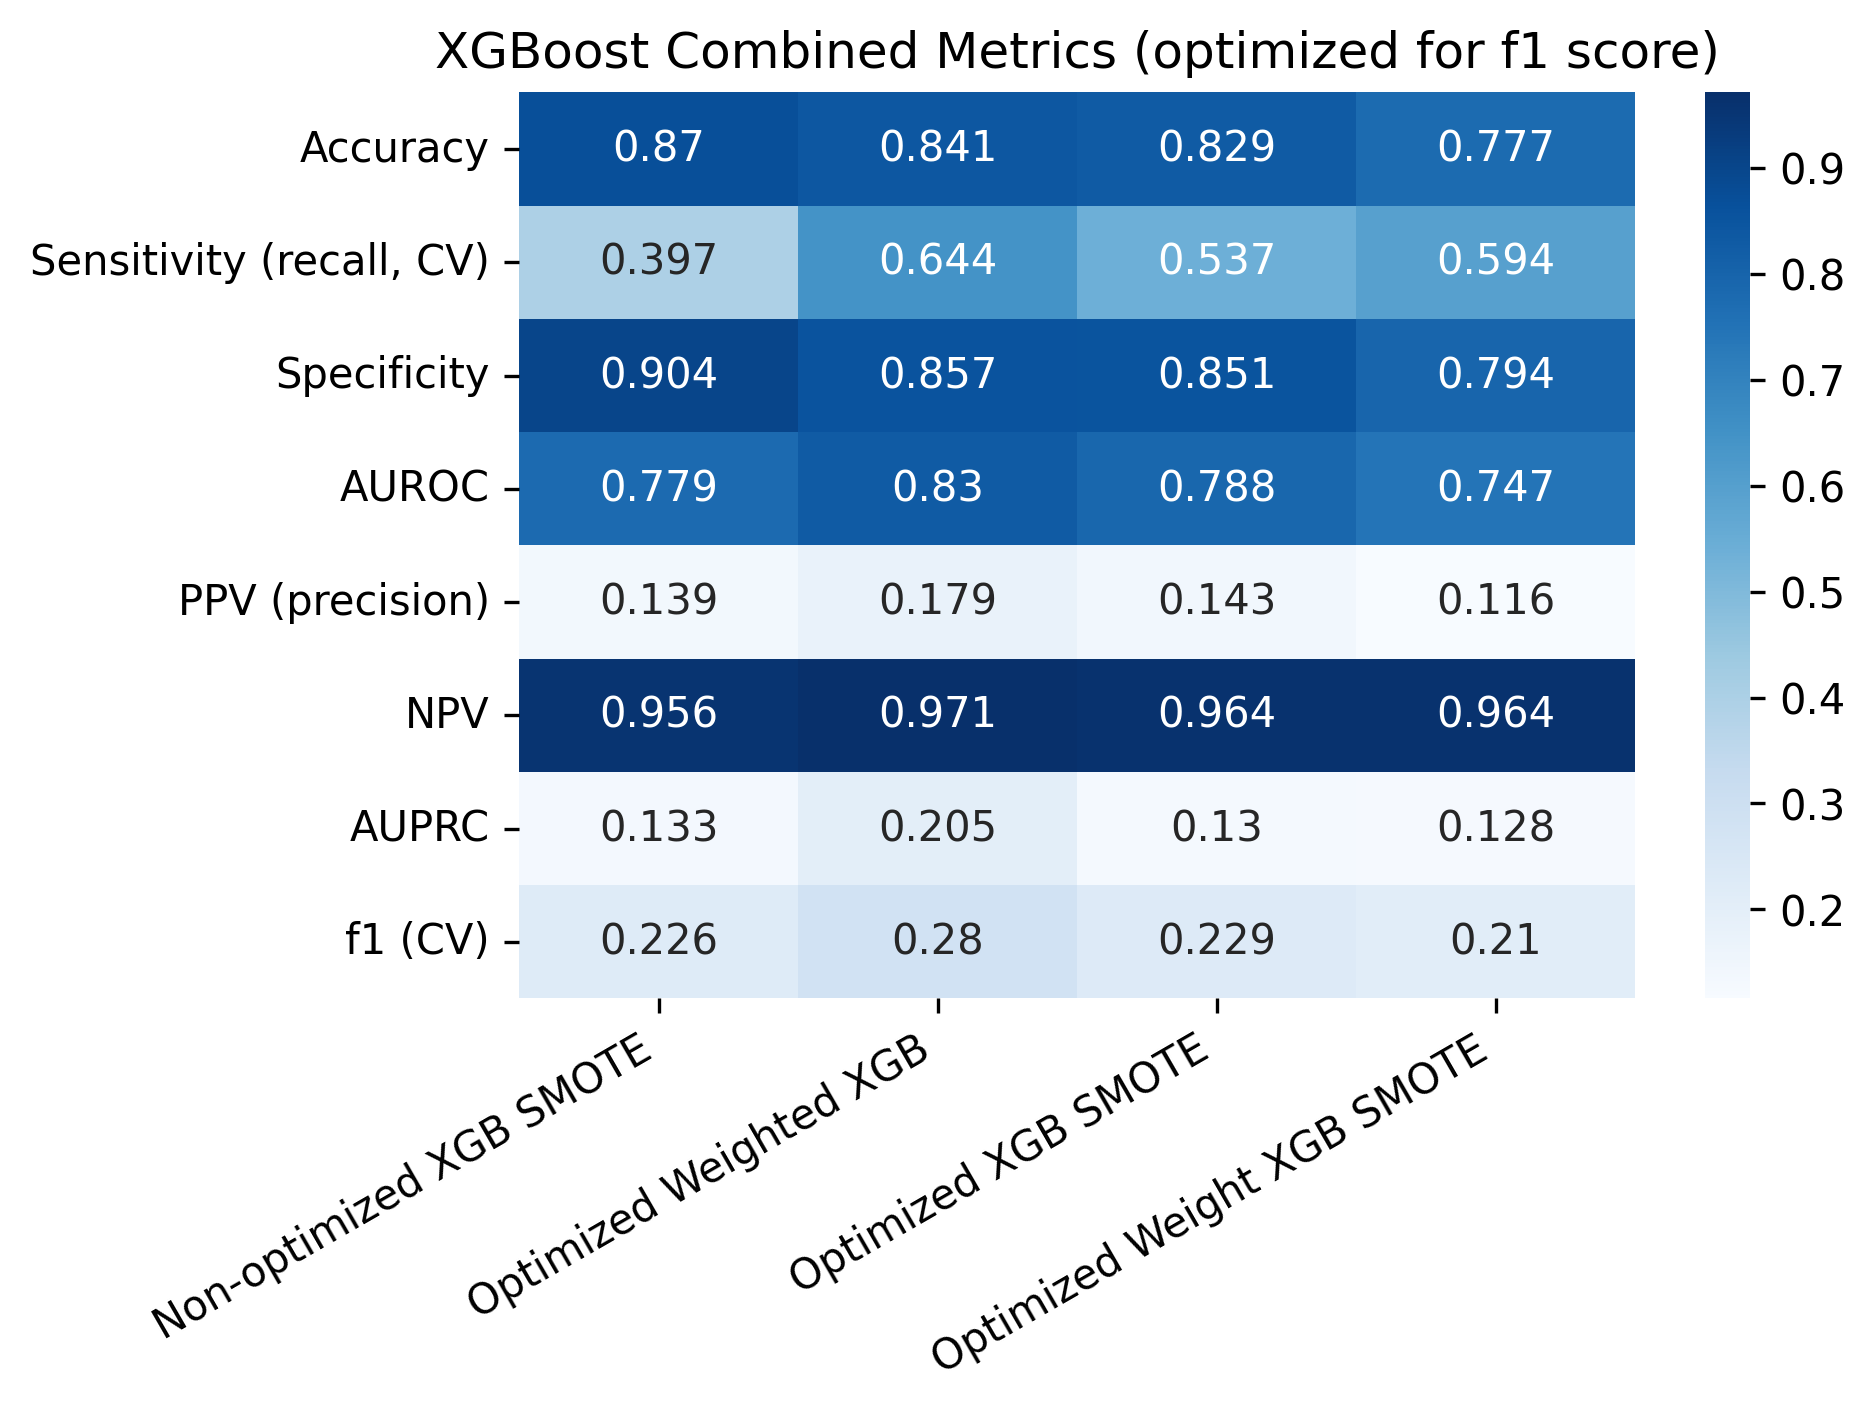
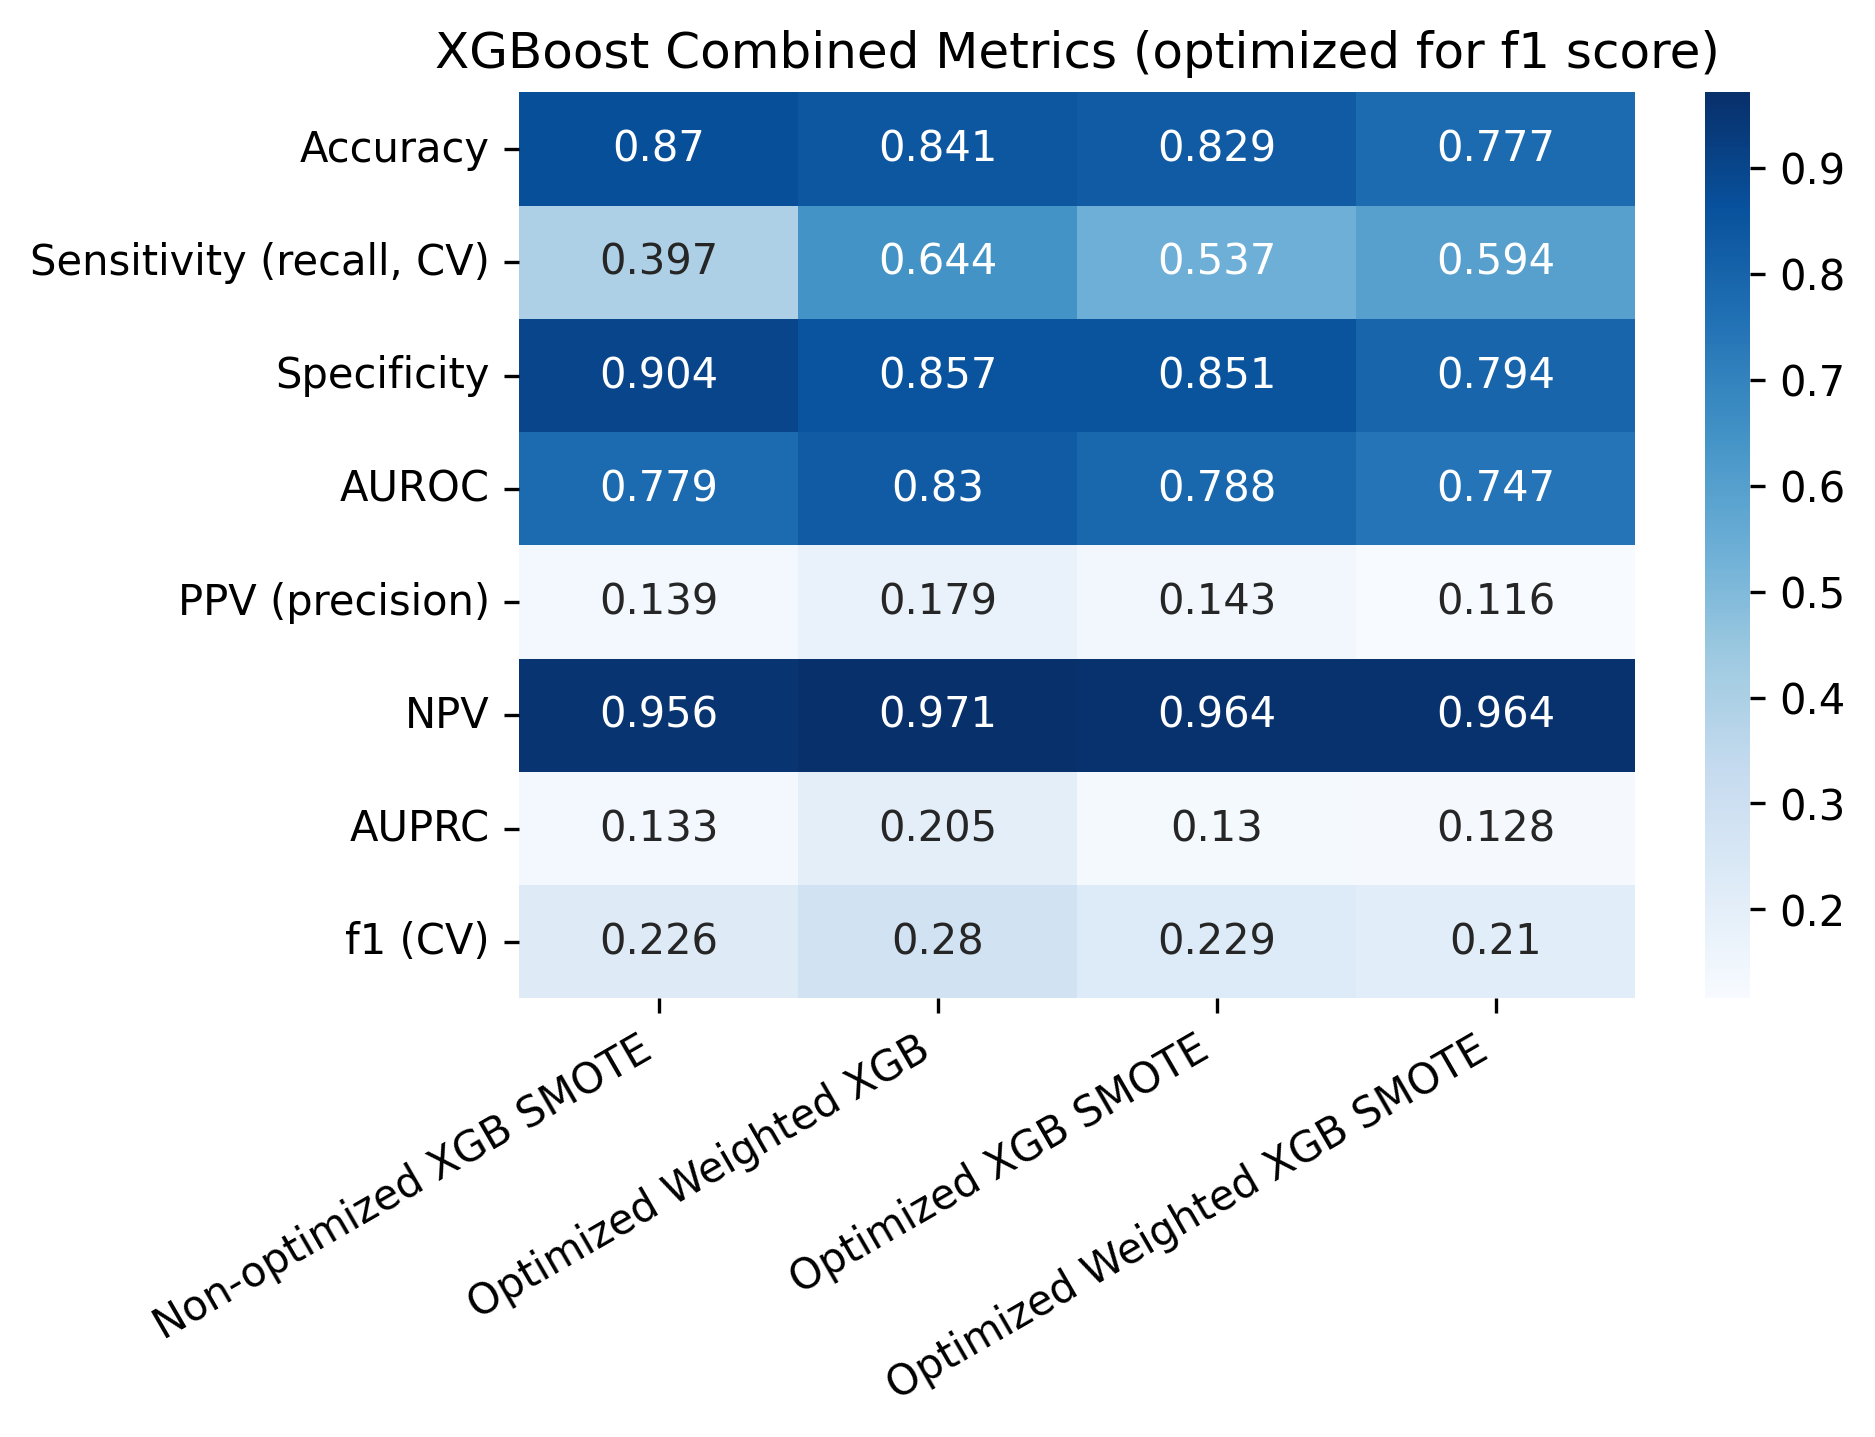
recall optimization

diff --git a/stroke_modeling.py b/stroke_modeling.py
@@ -847,7 +847,7 @@ grid_search_obj_xgb_w_s_, return_results_xgb_w_s_ = gridsearch_results(model_nam
 # Combine all XGBoost results
 # =============================
 combined_xgb = pd.concat([final_results.T['XGBoost'], return_results_xgb.T, return_results_xgb_s.T, return_results_xgb_w_s_.T], axis=1, join='inner')
-combined_xgb.columns = ['Non-optimized XGB SMOTE', 'Optimized Weighted XGB', 'Optimized XGB SMOTE', 'Optimized Weight XGB SMOTE']
+combined_xgb.columns = ['Non-optimized XGB SMOTE', 'Optimized Weighted XGB', 'Optimized XGB SMOTE', 'Optimized Weighted XGB SMOTE']
 sns.heatmap(data=combined_xgb, annot=True, cmap="Blues", fmt=".3")
 plt.xticks(rotation=30, horizontalalignment='right')  # Rotate y-tick labels to be horizontal# Rotate x-axis tick labels so they don't overlap
 plt.title('XGBoost Combined Metrics (optimized for f1 score)')
@@ -1041,7 +1041,7 @@ plt.show()
 # Parameter 'model_name' will be used for coding and saving images
 # Parameter 'model_display_name' will be used for plot labels
 # The recall and precision that are returned are the mean cross-validated values
-def gridsearch_results(model_name, model_display_name, estimator, param_grid, scoring, refit, n_jobs=10, cv=10, verbose=True):
+def gridsearch_results_complete(model_name, model_display_name, estimator, param_grid, scoring, refit, n_jobs=10, cv=10, verbose=True):
     # Create GridSearch object and fit data
     grid_search = GridSearchCV(estimator=estimator, param_grid=param_grid, scoring=scoring, refit=refit, n_jobs=n_jobs, cv=cv, verbose=verbose)
     grid_search.fit(X_train, y_train)
@@ -1049,14 +1049,18 @@ def gridsearch_results(model_name, model_display_name, estimator, param_grid, sc
     # Access scores of best estimator
     results = grid_search.cv_results_
     
-    # Gets the index of the best f1 score (to be used later as well)
-    best_estimator_f1_index = np.nonzero(results['rank_test_f1'] == 1)[0][0]
+    # Gets the index of the best score (whatever is specified by parameter 'refit', which is the score that is optimized with GridSearch) 
+    # To be used later as well
+    best_primary_score_index = np.nonzero(results['rank_test_' + refit] == 1)[0][0]
     
-    # Uses the index to select the best f1 score, which was used to select the best estimator
-    best_estimator_f1 = results['mean_test_f1'][best_estimator_f1_index]
+    # Uses the index to select the best score, which was used to select the best estimator
+    best_primary_score = results['mean_test_' + refit][best_primary_score_index]
+    
+    # Determine the non-primary score
+    non_primary_score_str = [x for x in scoring if not x==refit][0]
     
     # To get the recall score of the best estimator, use the same index as the best f1, since that corresponds to the same estimator
-    best_estimator_recall = results['mean_test_recall'][best_estimator_f1_index]
+    best_non_primary_score = results['mean_test_' + non_primary_score_str][best_primary_score_index]
     
     # Using optimal model from GridSearch results, fit and run model again so that I can run my results functions
     pipeline_gs = grid_search.best_estimator_
@@ -1069,17 +1073,139 @@ def gridsearch_results(model_name, model_display_name, estimator, param_grid, sc
     # Combine most important results into one dataframe
     return_metrics = ['Accuracy', 'Sensitivity (recall, CV)', 'Specificity', 'AUROC', 'PPV (precision)', 'NPV', 'AUPRC', 'f1 (CV)']
     return_results = pd.DataFrame(columns=return_metrics, index=[model_display_name])
-    return_results['Accuracy'] = results_gs['Accuracy']    
-    return_results['Sensitivity (recall, CV)'] = best_estimator_recall
+    return_results['Accuracy'] = results_gs['Accuracy']
+    
+    if (refit=='f1'):
+        return_results['Sensitivity (recall, CV)'] = best_non_primary_score
+        return_results['f1 (CV)'] = best_primary_score
+    else:
+        return_results['Sensitivity (recall, CV)'] = best_primary_score
+        return_results['f1 (CV)'] = best_non_primary_score
+        
     return_results['Specificity'] = results_gs['Specificity']
     return_results['AUROC'] = results_gs['AUROC']
     return_results['PPV (precision)'] = results_gs['PPV (precision)']
     return_results['NPV'] = results_gs['NPV']
     return_results['AUPRC'] = results_gs['AUPRC']
-    return_results['f1 (CV)'] = best_estimator_f1
     
     return grid_search, return_results
 
+# =======================================================================================
+# Quick optimization Logistic Regression, SVM, XGBoost for recall (as opposed to f1)
+# =======================================================================================
+# Calculate weights for model tuning
+num_pos_target = sum(y_train == 1) # minority class
+num_neg_target = sum(y_train == 0) # majority class
+inv_class_dist = num_neg_target / num_pos_target
+ratio_pos_to_neg = num_pos_target / num_neg_target
+
+weights_xgb = [inv_class_dist*0.5, inv_class_dist*0.75, inv_class_dist, inv_class_dist*1.25, inv_class_dist*1.5]
+
+weights_lr_svm = [{0:ratio_pos_to_neg, 1:(1/ratio_pos_to_neg)}]
+new_ratio = ratio_pos_to_neg*0.5
+weights_lr_svm.append({0:new_ratio, 1:(1/new_ratio)})
+new_ratio = ratio_pos_to_neg*0.75
+weights_lr_svm.append({0:new_ratio, 1:(1/new_ratio)})
+new_ratio = ratio_pos_to_neg*1.25
+weights_lr_svm.append({0:new_ratio, 1:(1/new_ratio)})
+new_ratio = ratio_pos_to_neg*1.5
+weights_lr_svm.append({0:new_ratio, 1:(1/new_ratio)})
+
+# =======================================================================================
+# Hyperparameter tuning XGBoost
+# =======================================================================================
+# =============================
+# Weighted XGBoost with hyperparameter tuning without SMOTE
+# =============================
+model_name = 'xgboost_w_r'
+model_display_name = 'Weighted XGBoost'
+
+xgb_w_r_model = XGBClassifier(objective='binary:logistic', nthread=4, seed=15, use_label_encoder=False, eval_metric='logloss')
+xgb_w_r_pipeline = create_pipeline(model_name, xgb_w_r_model, use_SMOTE=False)
+
+xgb_w_r_parameters = {model_name + '__max_depth': range (2, 10, 1), 
+                  model_name + '__n_estimators': range(60, 220, 40), 
+                  model_name + '__learning_rate': [0.1, 0.01, 0.05],
+                  model_name + '__scale_pos_weight': weights_xgb}
+
+# xgb_w_r_parameters = {model_name + '__max_depth': range (8, 10, 1), 
+#                   model_name + '__n_estimators': range(60, 100, 40), 
+#                   model_name + '__learning_rate': [0.01, 0.05],
+#                   model_name + '__scale_pos_weight': weights_xgb}
+
+grid_search_obj_xgb_w_r, return_results_xgb_w_r = gridsearch_results_complete(model_name=model_name, 
+                                                             model_display_name=model_display_name, 
+                                                             estimator=xgb_w_r_pipeline, 
+                                                             param_grid=xgb_w_r_parameters, 
+                                                             scoring=['f1', 'recall'], refit='recall', 
+                                                             n_jobs=10, cv=10, verbose=3)
+
+return_results_xgb_w_r.T
+
+# =============================
+# XGBoost with hyperparameter tuning with SMOTE
+# =============================
+model_name = 'xgboost_t_s_r'
+model_display_name = 'XGBoost (SMOTE)'
+
+xgb_model_smote_r = XGBClassifier(objective='binary:logistic', nthread=4, seed=15, use_label_encoder=False, eval_metric='logloss')
+xgb_pipeline_smote_r = create_pipeline(model_name, xgb_model_smote_r, use_SMOTE=True)
+
+xgb_smote_r_parameters = {model_name + '__max_depth': range (2, 10, 1),
+                          model_name + '__n_estimators': range(60, 220, 40),
+                          model_name + '__learning_rate': [0.1, 0.01, 0.05]}
+
+grid_search_obj_xgb_s_r, return_results_xgb_s_r = gridsearch_results_complete(model_name=model_name, 
+                                                                 model_display_name=model_display_name,
+                                                                 estimator=xgb_pipeline_smote_r, 
+                                                                 param_grid=xgb_smote_r_parameters, 
+                                                                 scoring=['f1', 'recall'], refit='recall', 
+                                                                 n_jobs=10, cv=10, verbose=True)
+
+return_results_xgb_s_r.T
+
+
+# =======================================================================================
+# Hyperparameter tuning Logistic Regression
+# =======================================================================================
+# =============================
+# Weighted Logistic Regression with hyperparameter tuning without SMOTE
+# =============================
+model_name = 'log_reg_w_s'
+model_display_name = 'Weighted Log Reg'
+
+lr_s_model = LogisticRegression(random_state=15)
+lr_s_pipeline = create_pipeline(model_name, lr_s_model, use_SMOTE=False)
+
+lr_s_parameters = {model_name + '__C': np.logspace(-3, 3, 20), 
+                   model_name + '__penalty': ['l2'],
+                   model_name + '__class_weight' : weights_lr_svm}
+
+grid_search_obj_lr, return_results_lr = gridsearch_results(model_name=model_name, 
+                                                             model_display_name=model_display_name, 
+                                                             estimator=lr_pipeline, 
+                                                             param_grid=lr_parameters, 
+                                                             scoring=['f1', 'recall'], refit='f1', 
+                                                             n_jobs=10, cv=10, verbose=True)
+
+# =============================
+# Logistic Regression with hyperparameter tuning with SMOTE
+# =============================
+model_name = 'log_reg_t_s'
+model_display_name = 'Log Reg (SMOTE)'
+
+lr_t_s_model = LogisticRegression(random_state=15)
+lr_t_s_pipeline = create_pipeline(model_name, lr_t_s_model, use_SMOTE=True)
+
+lr_t_s_parameters = {model_name + '__C': np.logspace(-3, 3, 20), 
+                 model_name + '__penalty': ['l2']}
+
+grid_search_obj_lr_t_s, return_results_lr_t_s = gridsearch_results(model_name=model_name, 
+                                                             model_display_name=model_display_name, 
+                                                             estimator=lr_t_s_pipeline, 
+                                                             param_grid=lr_t_s_parameters, 
+                                                             scoring=['f1', 'recall'], refit='f1', 
+                                                             n_jobs=10, cv=10, verbose=True)
 
 
 
